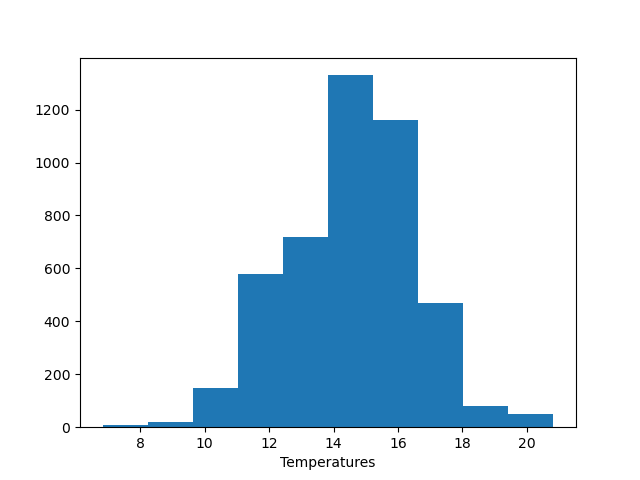
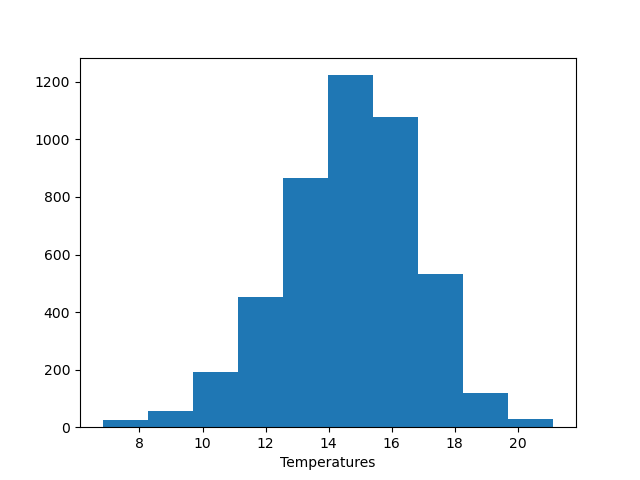
Fix task12

diff --git a/tasks/task12/process_data.py b/tasks/task12/process_data.py
@@ -6,7 +6,7 @@ import sys
 ID = sys.argv[1]
 df_list = []
 for i in range(1, 10+1):
-    df = pd.read_csv(f"task12_{ID}_{2}.out")
+    df = pd.read_csv(f"task12_{ID}_{i}.out")
     df_list.append(df)
 
 df = pd.concat(df_list, ignore_index=True, sort=False)
